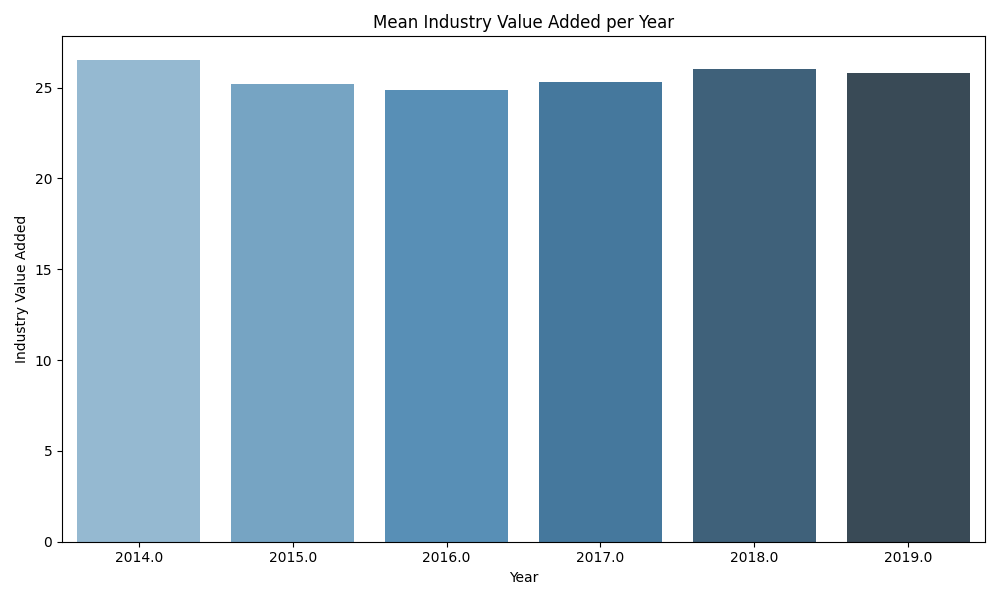
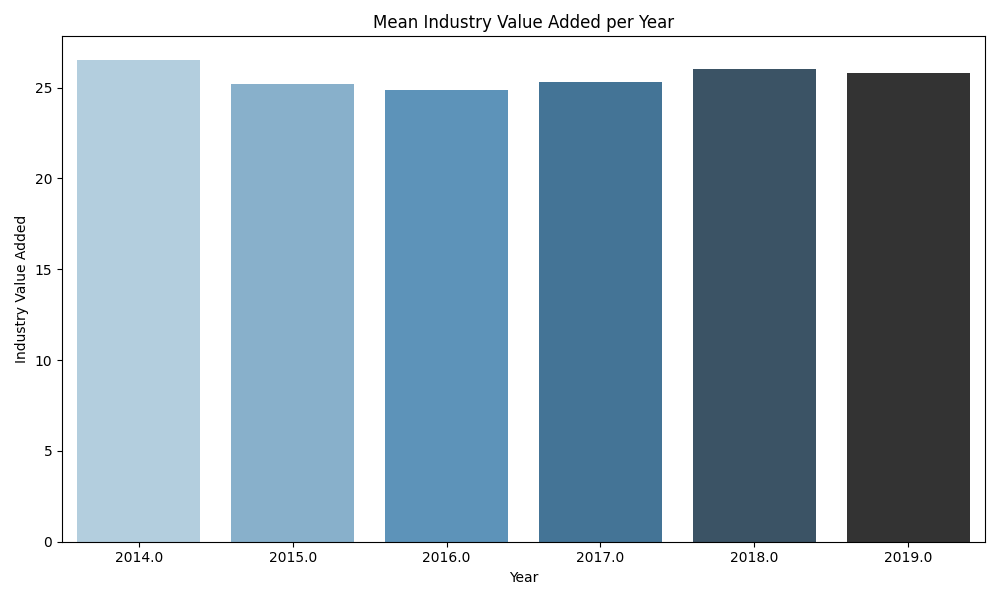
unit tests have passed

Changed region(s): [[0.062, 0.09, 0.217, 0.93], [0.837, 0.12, 0.992, 0.93]]

diff --git a/Source (main)/Analysis.py b/Source (main)/Analysis.py
@@ -7,6 +7,9 @@ import seaborn as sns
 
 
 
+
+
+
 # ---------------------------------------------------
 # Configuration
 # ---------------------------------------------------
@@ -166,6 +169,16 @@ import numpy as np
 import matplotlib.pyplot as plt
 import seaborn as sns
 from scipy.stats import pearsonr
+
+import warnings
+
+# Suppress only the specific Seaborn FutureWarning
+warnings.filterwarnings(
+    "ignore",
+    category=FutureWarning,
+    message=".*Passing `palette` without assigning `hue` is deprecated.*"
+)
+
 
 # ------------------------------------------------------------
 # CONFIGURATION
@@ -427,7 +440,7 @@ def run_section_5(df: pd.DataFrame):
 
     # Bar chart: mean industry value added per year (fix FutureWarning)
     plt.figure(figsize=(10,6))
-    sns.barplot(data=yearly_avg, x="year", y="industry_value_added", hue=None, palette="Blues_d", dodge=False)
+    sns.barplot(data=yearly_avg, x="year", y="industry_value_added", hue="year", palette="Blues_d",legend=False)
     plt.title("Mean Industry Value Added per Year")
     plt.ylabel("Industry Value Added")
     plt.xlabel("Year")

diff --git a/Source (main)/test_analysis.py b/Source (main)/test_analysis.py
@@ -193,5 +193,4 @@ def test_nan_values(monkeypatch, tmp_path):
 
 
 
-
-
+# To run the tests, run the code and when the terminal opens paste this command: python3 -m pytest "Source (main)/test_analysis.py" -v
